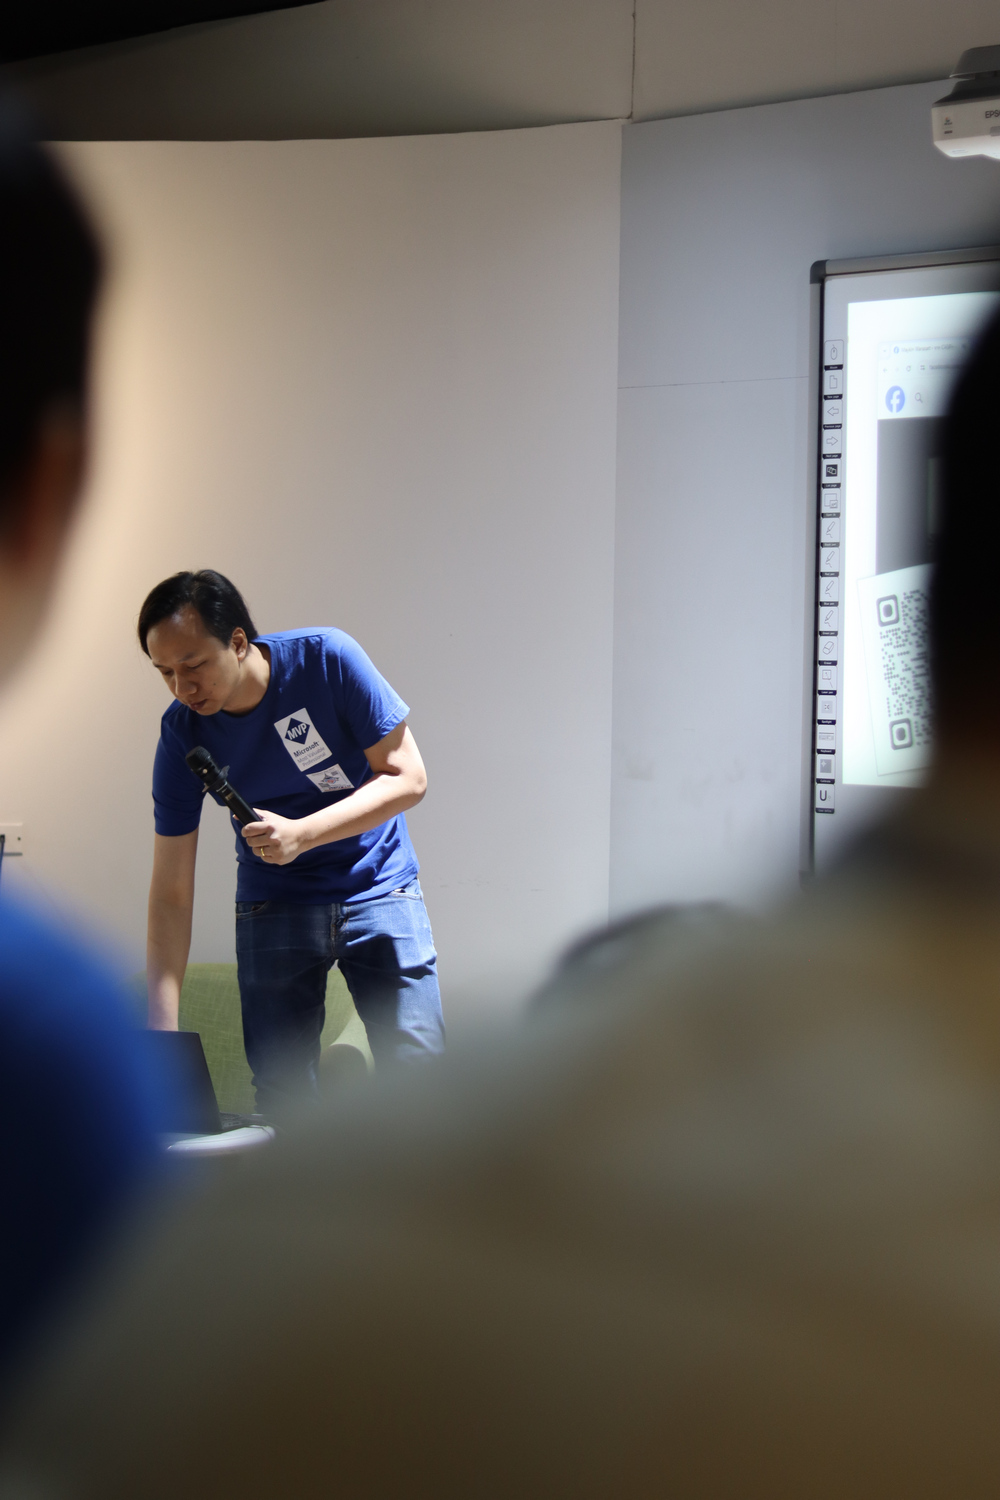
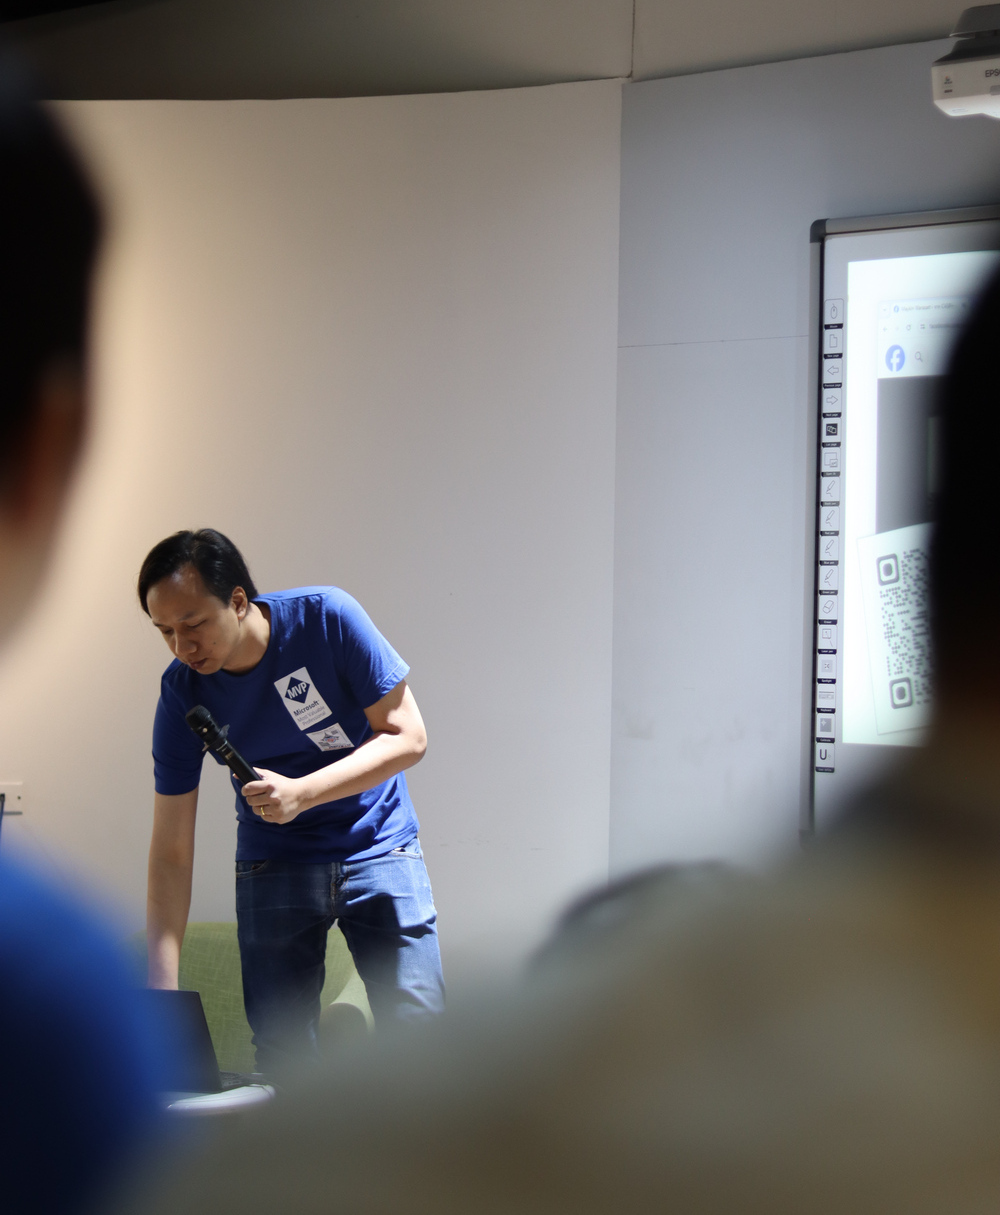
AI

diff --git a/2024/VTE/index.md b/2024/VTE/index.md
@@ -36,12 +36,15 @@
 </p>
 
 
-+ **XXX**
-    + xxxx
-    + xxxx
++ **Cybersecurity in an AI-turbocharged era**
+    + Asst.Prof. Wanchanok Sunthorn
+        + Digital Media Technology Program, Rajamangala University of Technology Thanyaburi (RMUTT)
+        + PhD candidate in Data Science and Artificial Intelligence, School of Engineering and Technology. Asian Institute of Technology (AIT)
+    + M., Warasart
+        + Founding President, iKNEX (Thailand)
 
 <p align="center">
-    <a href="Photo/#.JPG"><img src="Photo/#.JPG" width="70%" title="SysAdmin Day 2024 - Live in Vientiane"></a>
+    <a href="Photo/02-AI.JPG"><img src="Photo/02-AI_small.JPG" width="70%" title="SysAdmin Day 2024 - Live in Vientiane"></a>
 </p>
 
 
